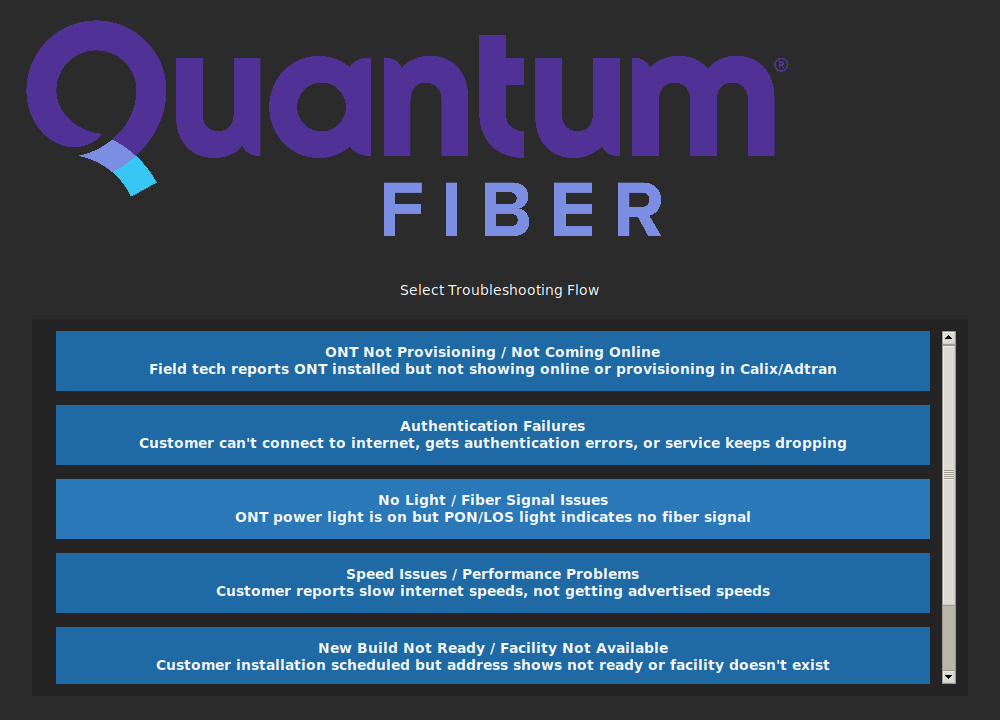
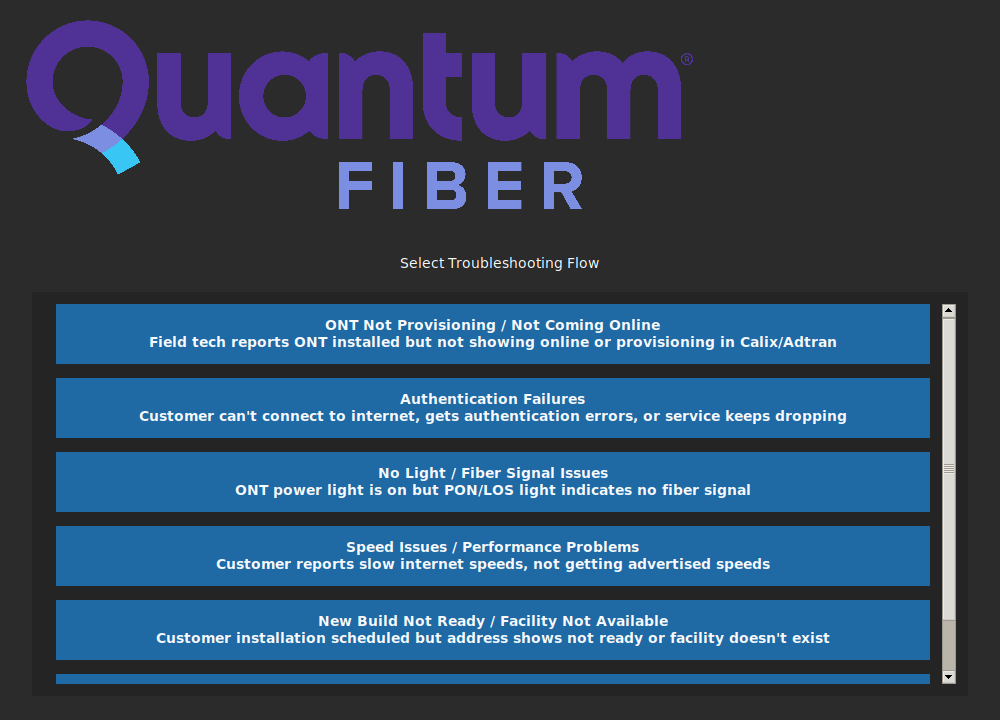
Address UI review feedback

diff --git a/troubleshoot-assistant/src/desktop_app.py b/troubleshoot-assistant/src/desktop_app.py
@@ -48,7 +48,7 @@ LOG_PATH = LOG_ROOT / "troubleshooting_log.csv"
 class TechAssistDesktopApp:
     HEADER_ROWS_WITH_LOGO = 4
     HEADER_ROWS_WITHOUT_LOGO = 3
-    TARGET_LOGO_WIDTH = 820
+    TARGET_LOGO_WIDTH = 700
     BACKGROUND_COLOR = "#2b2b2b"
     PANEL_COLOR = "#242424"
     FLOW_BUTTON_COLOR = "#1f6aa5"
@@ -197,6 +197,10 @@ class TechAssistDesktopApp:
         for widget in self.content.winfo_children():
             widget.destroy()
 
+    def _show_home_button(self) -> None:
+        self.home_button.grid(row=0, column=1, sticky="e")
+        self.home_button.state(["!disabled"])
+
     def _reset_session(self) -> None:
         self.session_data = {
             "flow_id": None,
@@ -287,6 +291,9 @@ class TechAssistDesktopApp:
             button.grid(row=idx, column=0, sticky="ew", padx=12, pady=(0, 14))
 
     def _start_selected_flow(self) -> None:
+        if not hasattr(self, "flow_tree"):
+            messagebox.showwarning("Selection Required", "Select an issue from the list to continue.")
+            return
         selected = self.flow_tree.selection()
         if not selected:
             messagebox.showwarning("Select an Issue", "Please select an issue to continue.")
@@ -347,8 +354,7 @@ class TechAssistDesktopApp:
 
     def show_step(self, step: dict) -> None:
         self._clear_content()
-        self.home_button.grid()
-        self.home_button.state(["!disabled"])
+        self._show_home_button()
         self.current_step = step
         self.choice_var.set("")
 
@@ -446,8 +452,7 @@ class TechAssistDesktopApp:
 
     def show_solution(self, solution) -> None:
         self._clear_content()
-        self.home_button.grid()
-        self.home_button.state(["!disabled"])
+        self._show_home_button()
         self.resolution_var.set("")
         self.current_solution = solution
 
@@ -600,8 +605,7 @@ class TechAssistDesktopApp:
 
     def show_completion(self, resolved: bool) -> None:
         self._clear_content()
-        self.home_button.grid()
-        self.home_button.state(["!disabled"])
+        self._show_home_button()
 
         message = (
             f"✅ Great news! The {self.session_data.get('flow_name')} issue was resolved and logged."
